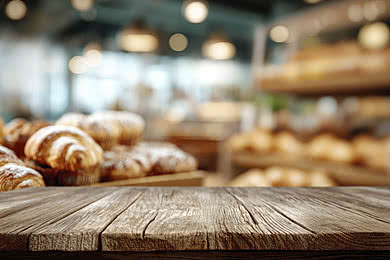
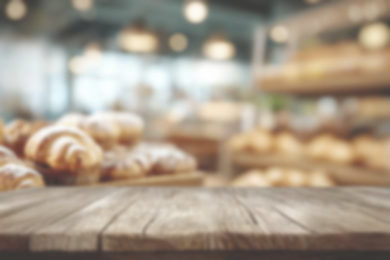
Add header and navigation

diff --git a/Nalam-Manny's/index.html b/Nalam-Manny's/index.html
@@ -2,6 +2,8 @@
 <html lang="en">
 <head>
     <meta charset="UTF-8">
+    <!-- for mobile viewers-->
+    <meta name="viewport" content="width=device-width, initial-scale=1.0">
     <title>Manny's Bake Shoppe</title>
     <link rel="stylesheet" href="css/style.css">
 
@@ -29,15 +31,21 @@
     </nav>
 
 
-    <main>
+    <main> 
+
         <!-- Hero Section -->
-        <div class="hero-image">
+        <section id=""home" class="hero-image"> 
             <div class="hero-text">
-                <h1>MANNY'S BAKE SHOPPE</h1>
+                <h2>MANNY'S BAKE SHOPPE</h2>
+
                 <p>Come in and eat our bread!</p>
-                <button>Order Now</button>
+
+                <a href="#order-form" class="hero-button">
+                    Order Now
+                </a>
             </div>
-            </div>
+
+        </section>
         <!-- Menu, where we display our items -->
         <section id = "Menu">
             <h2>Menu</h2>
@@ -66,10 +74,12 @@
     </main>
 
 
-</body>
-
 <footer>
     <p> contact us at: 09123456789, info@manny'sbakeshoppe.com, 2026, Nalam, John Manuel C.</p>
 </footer>
+
+</body>
+
+
 
 </html>

diff --git a/Nalam-Manny's/css/style.css b/Nalam-Manny's/css/style.css
@@ -19,8 +19,14 @@ h1, h2 {
 
 
 .hero-image {
-    background-image: linear-gradient(rgba(0, 0, 0, 0.5), rgba(0, 0, 0, 0.5)), url(css/images/bg.jpg);
+    background-image: linear-gradient(rgba(71, 71, 71, 0.5), rgba(185, 185, 185, 0.5)), url(../images/bg.jpg);
     height: 100%;
+
+    min-height: 400px;
+    display: flex;
+    align-items: center;
+    justify-content: center;
+    text-align: center;
 
     background-position: center;
     background-repeat: no-repeat;
@@ -28,3 +34,16 @@ h1, h2 {
     position: relative;
 }
 
+.hero-text {
+    color: white;
+    padding: 30px;
+}
+
+.hero-button{
+    display: inline-block;
+    background-color: #95461a;
+    color: white;
+    padding: 12px 25px;
+    text-decoration: none;
+    border-radius: 5px;
+}
